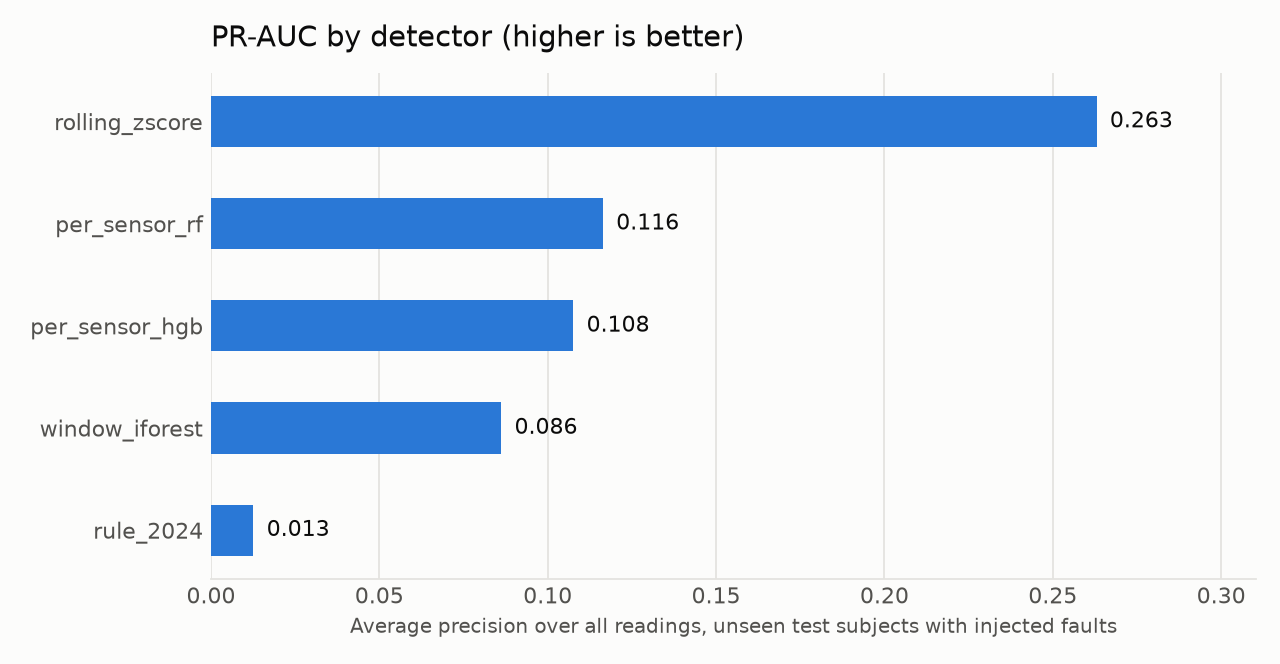
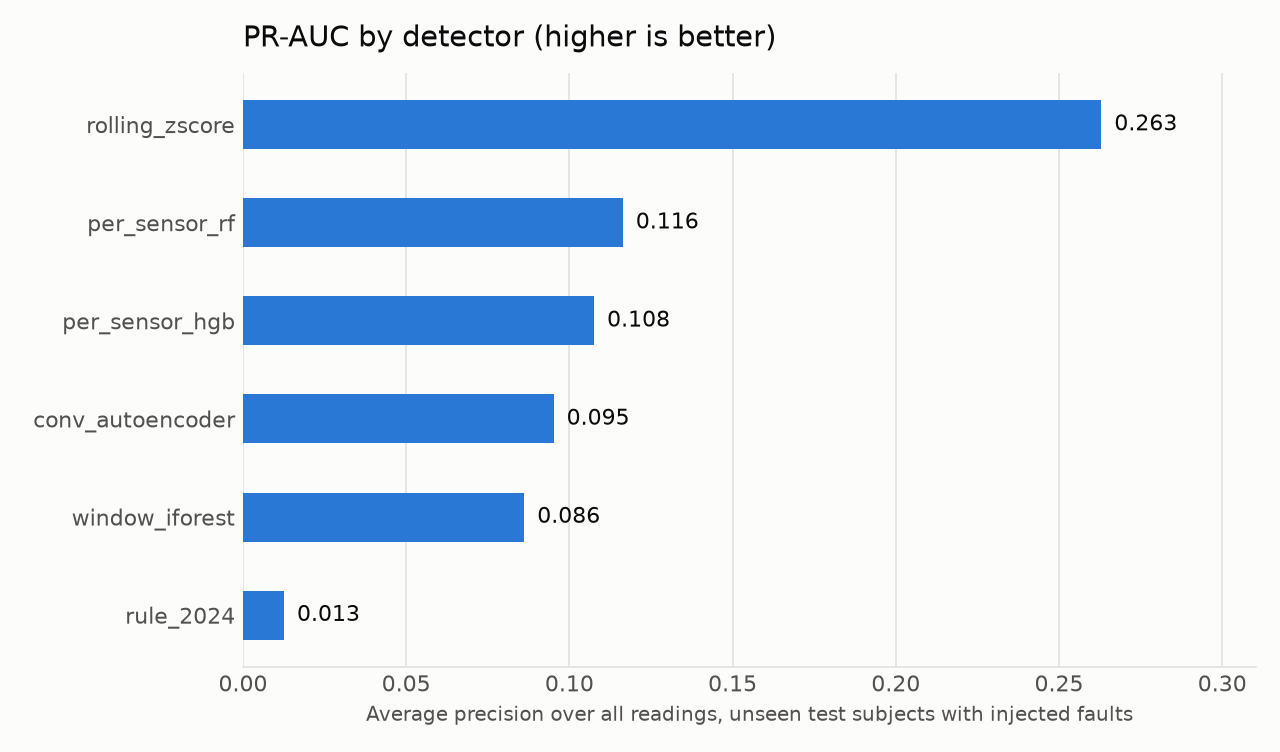
Add 1D-CNN autoencoder detector (benchmark only, torch in requirements-train.txt); refresh benchmark and charts

diff --git a/wearable_anomaly/detectors/autoencoder.py b/wearable_anomaly/detectors/autoencoder.py
@@ -1,0 +1,132 @@
+"""1D convolutional autoencoder over all sensors at once (benchmark only).
+
+The model squeezes a 1 s window (100 samples x 31 sensors) through a small
+bottleneck and rebuilds it. Trained only on normal data, it learns to rebuild
+normal movement; a fault it has never seen (a frozen line, a ramp, zeros) gets
+rebuilt as normal movement, and the reconstruction error is the anomaly score.
+
+Unlike the rolling z-score, convolutions mix time and sensors, so the model knows
+what the other sensors are doing in that same second.
+
+Trade-offs, stated plainly:
+- Offline only: a window contains up to 1 s of future samples, so this detector is
+  not used in the live stream (Step 9 uses causal detectors).
+- Needs torch (requirements-train.txt). torch is imported inside methods, so the rest
+  of the package, and the deployed API, work without it.
+- Trained on CPU with fixed seeds for reproducibility.
+"""
+
+import numpy as np
+import pandas as pd
+
+from wearable_anomaly import config
+from wearable_anomaly.features import subject_blocks
+
+
+def _build(n_channels: int, hidden: int, code: int):
+    from torch import nn
+
+    return nn.Sequential(
+        # encoder: 100 -> 50 -> 25 samples
+        nn.Conv1d(n_channels, hidden, kernel_size=5, stride=2, padding=2),
+        nn.ReLU(),
+        nn.Conv1d(hidden, code, kernel_size=5, stride=2, padding=2),
+        nn.ReLU(),
+        # decoder: 25 -> 50 -> 100 samples
+        nn.ConvTranspose1d(code, hidden, kernel_size=4, stride=2, padding=1),
+        nn.ReLU(),
+        nn.ConvTranspose1d(hidden, n_channels, kernel_size=4, stride=2, padding=1),
+    )
+
+
+class ConvAutoencoder:
+    name = "conv_autoencoder"
+    train_stride = 1  # windows need contiguous samples
+    optional_dependency = "torch"
+
+    def __init__(self, columns=None, false_alarm_rate=None, **params):
+        self.columns = list(columns or config.SENSOR_COLUMNS)
+        self.false_alarm_rate = false_alarm_rate or config.TARGET_FALSE_ALARM_RATE
+        self.params = {**config.AE_PARAMS, **params}
+        self.mean_ = self.std_ = None
+        self.model_ = None
+        self.thresholds_ = None
+        self.train_losses_ = []
+
+    # --- helpers -------------------------------------------------------------
+    def _standardise(self, df: pd.DataFrame) -> np.ndarray:
+        return ((df[self.columns].to_numpy(np.float32) - self.mean_) / self.std_).astype(np.float32)
+
+    def _window_starts(self, df: pd.DataFrame, step: int) -> np.ndarray:
+        """Window starts that never cross a subject boundary; the last window ends at the block end."""
+        w, starts = self.params["window"], []
+        for rows, _ in subject_blocks(df):
+            lo, hi = rows.start, rows.stop
+            if hi - lo < w:
+                continue
+            s = list(range(lo, hi - w + 1, step))
+            if s[-1] != hi - w:
+                s.append(hi - w)
+            starts.extend(s)
+        return np.asarray(starts)
+
+    # --- interface -----------------------------------------------------------
+    def fit(self, train: pd.DataFrame) -> "ConvAutoencoder":
+        import torch
+
+        p = self.params
+        torch.manual_seed(config.RANDOM_SEED)
+        rng = np.random.default_rng(config.RANDOM_SEED)
+        self.mean_ = train[self.columns].mean().to_numpy(np.float32)
+        self.std_ = train[self.columns].std().to_numpy(np.float32) + 1e-6
+        X = torch.from_numpy(self._standardise(train))
+        starts = self._window_starts(train, step=1)
+        offsets = torch.arange(p["window"])
+
+        self.model_ = _build(len(self.columns), p["hidden"], p["code"])
+        opt = torch.optim.Adam(self.model_.parameters(), lr=p["lr"])
+        loss_fn = torch.nn.MSELoss()
+        self.model_.train()
+        for _ in range(p["epochs"]):
+            # a fresh random sample of windows each epoch (compute budget, see config)
+            chosen = rng.choice(
+                starts, size=min(p["windows_per_epoch"], len(starts)), replace=False
+            )
+            total = 0.0
+            for i in range(0, len(chosen), p["batch_size"]):
+                idx = torch.from_numpy(chosen[i : i + p["batch_size"]])[:, None] + offsets
+                batch = X[idx].transpose(1, 2)  # (batch, sensors, time)
+                opt.zero_grad()
+                loss = loss_fn(self.model_(batch), batch)
+                loss.backward()
+                opt.step()
+                total += loss.item() * len(batch)
+            self.train_losses_.append(round(total / len(chosen), 5))
+        return self
+
+    def _errors(self, df: pd.DataFrame) -> np.ndarray:
+        """|x - reconstruction| per reading, in standardised units."""
+        import torch
+
+        w = self.params["window"]
+        X = self._standardise(df)
+        err = np.zeros_like(X)
+        self.model_.eval()
+        starts = self._window_starts(df, step=w)  # non-overlapping, plus one tail window
+        with torch.no_grad():
+            for i in range(0, len(starts), 1024):
+                s = starts[i : i + 1024]
+                idx = s[:, None] + np.arange(w)
+                batch = torch.from_numpy(X[idx]).transpose(1, 2)
+                recon = self.model_(batch).transpose(1, 2).numpy()
+                err[idx] = np.abs(X[idx] - recon)
+        return err
+
+    def calibrate(self, calib: pd.DataFrame) -> "ConvAutoencoder":
+        self.thresholds_ = np.quantile(self._errors(calib), 1 - self.false_alarm_rate, axis=0)
+        return self
+
+    def score(self, df: pd.DataFrame) -> pd.DataFrame:
+        return pd.DataFrame(
+            self._errors(df) / self.thresholds_, columns=self.columns, index=df.index
+        )

diff --git a/tests/test_autoencoder.py b/tests/test_autoencoder.py
@@ -1,0 +1,59 @@
+import numpy as np
+import pandas as pd
+import pytest
+
+from wearable_anomaly import detectors
+
+pytest.importorskip("torch")  # training extra; skipped where only requirements-dev is installed
+
+from wearable_anomaly.detectors.autoencoder import ConvAutoencoder
+
+
+def _signal(n, seed):
+    """Two correlated sensors: b follows a with a lag, as body-worn sensors do."""
+    rng = np.random.default_rng(seed)
+    t = np.arange(n) / 100
+    a = np.sin(2 * np.pi * 0.8 * t)
+    df = pd.DataFrame(
+        {"a": a + rng.normal(0, 0.05, n), "b": np.roll(a, 10) + rng.normal(0, 0.05, n)}
+    )
+    df.insert(0, "subject", 1)
+    return df
+
+
+def _detector():
+    # The bottleneck must be smaller than the input or the network learns to copy it, faults
+    # included. Here: 2 sensors x 100 samples (200 values) -> 1 x 25 (25 values), 8x compression.
+    # (Real data: 31 x 100 = 3,100 -> 8 x 25 = 200, about 15x.)
+    # Also: enough optimizer steps to converge (10 epochs x ~31 batches). With ~100 steps the
+    # loss barely moved (1.05 -> 0.73) and faults were indistinguishable from normal data.
+    return ConvAutoencoder(
+        ["a", "b"],
+        false_alarm_rate=0.01,
+        epochs=10,
+        windows_per_epoch=8000,
+        lr=5e-3,
+        hidden=8,
+        code=1,
+    )
+
+
+def test_autoencoder_flags_frozen_sensor_and_keeps_false_alarms_low():
+    det = _detector().fit(_signal(20000, 0)).calibrate(_signal(10000, 1))
+    test = _signal(3000, 2)
+    test.loc[1000:1199, "b"] = test.loc[999, "b"]  # frozen for 2 s
+    flags = det.score(test) > 1
+    assert flags.loc[1000:1199, "b"].mean() > 0.3
+    assert (det.score(_signal(10000, 3)) > 1).to_numpy().mean() < 0.05
+
+
+def test_scores_cover_every_row_including_the_tail():
+    det = _detector().fit(_signal(5000, 0)).calibrate(_signal(5000, 1))
+    test = _signal(1234, 2)  # not a multiple of the 100-sample window
+    scores = det.score(test)
+    assert scores.shape == (1234, 2)
+    assert (scores.iloc[-50:] > 0).all().all()  # the tail window was scored
+
+
+def test_benchmark_includes_autoencoder_only_when_torch_installed():
+    assert "conv_autoencoder" in detectors.available()

diff --git a/wearable_anomaly/detectors/__init__.py b/wearable_anomaly/detectors/__init__.py
@@ -9,6 +9,9 @@ Every detector has the same interface, so the benchmark can treat them alike:
 A score is "how far past the threshold": 1.0 is exactly at it, for every sensor.
 """
 
+import importlib.util
+
+from wearable_anomaly.detectors.autoencoder import ConvAutoencoder
 from wearable_anomaly.detectors.isolation import WindowIsolationForest
 from wearable_anomaly.detectors.per_sensor import PerSensorHGB, PerSensorRegressor
 from wearable_anomaly.detectors.rolling import RollingZScore
@@ -16,9 +19,24 @@ from wearable_anomaly.detectors.rolling import RollingZScore
 # name -> class. Train any of these with: python -m wearable_anomaly.train --detector <name>
 REGISTRY = {
     cls.name: cls
-    for cls in (RollingZScore, PerSensorRegressor, PerSensorHGB, WindowIsolationForest)
+    for cls in (
+        RollingZScore,
+        PerSensorRegressor,
+        PerSensorHGB,
+        WindowIsolationForest,
+        ConvAutoencoder,
+    )
 }
 
 
 def make(name: str):
     return REGISTRY[name]()
+
+
+def available() -> list[str]:
+    """Registered detectors whose optional dependency (e.g. torch) is installed."""
+    return sorted(
+        name
+        for name, cls in REGISTRY.items()
+        if importlib.util.find_spec(getattr(cls, "optional_dependency", "numpy")) is not None
+    )

diff --git a/wearable_anomaly/config.py b/wearable_anomaly/config.py
@@ -120,6 +120,19 @@ IFOREST_PARAMS = {
     "random_state": RANDOM_SEED,
 }
 
+# 1D convolutional autoencoder (benchmark only; needs requirements-train.txt).
+# Compute budget: each epoch trains on a fresh random sample of 1 s windows rather
+# than every possible window, on CPU.
+AE_PARAMS = {
+    "window": 100,  # samples (1 s)
+    "hidden": 32,
+    "code": 8,  # bottleneck channels at 1/4 time resolution
+    "epochs": 15,
+    "windows_per_epoch": 40_000,
+    "batch_size": 256,
+    "lr": 1e-3,
+}
+
 # Thresholds are set so that this share of readings on the clean calibration
 # subject would be flagged: the expected false-alarm rate, chosen up front.
 TARGET_FALSE_ALARM_RATE = 0.005

diff --git a/wearable_anomaly/benchmark.py b/wearable_anomaly/benchmark.py
@@ -96,7 +96,8 @@ def markdown_table(results: dict) -> str:
 
 def main() -> None:
     parser = argparse.ArgumentParser()
-    parser.add_argument("--detectors", nargs="+", default=sorted(detectors.REGISTRY))
+    # default: every detector whose dependencies are installed (the autoencoder needs torch)
+    parser.add_argument("--detectors", nargs="+", default=detectors.available())
     parser.add_argument("--retrain", action="store_true")
     args = parser.parse_args()
 

diff --git a/reports/benchmark.md b/reports/benchmark.md
@@ -4,6 +4,7 @@ Generated by `python -m wearable_anomaly.benchmark`. Test subjects [105, 108], 5
 
 | Detector | F1 | PR-AUC | Precision | Recall | Clean false alarms | spike recall | stuck recall | offset recall | drift recall | dropout recall | noise recall |
 |---|---|---|---|---|---|---|---|---|---|---|---|
+| conv_autoencoder | 0.156 | 0.095 | 0.102 | 0.339 | 3.06% | 98% | 15% | 94% | 99% | 30% | 100% |
 | per_sensor_hgb | 0.133 | 0.108 | 0.081 | 0.372 | 4.53% | 96% | 18% | 84% | 96% | 34% | 100% |
 | per_sensor_rf | 0.134 | 0.116 | 0.082 | 0.371 | 4.52% | 97% | 10% | 84% | 97% | 22% | 100% |
 | rolling_zscore | 0.312 | 0.263 | 0.402 | 0.255 | 0.51% | 86% | 87% | 76% | 23% | 100% | 88% |
